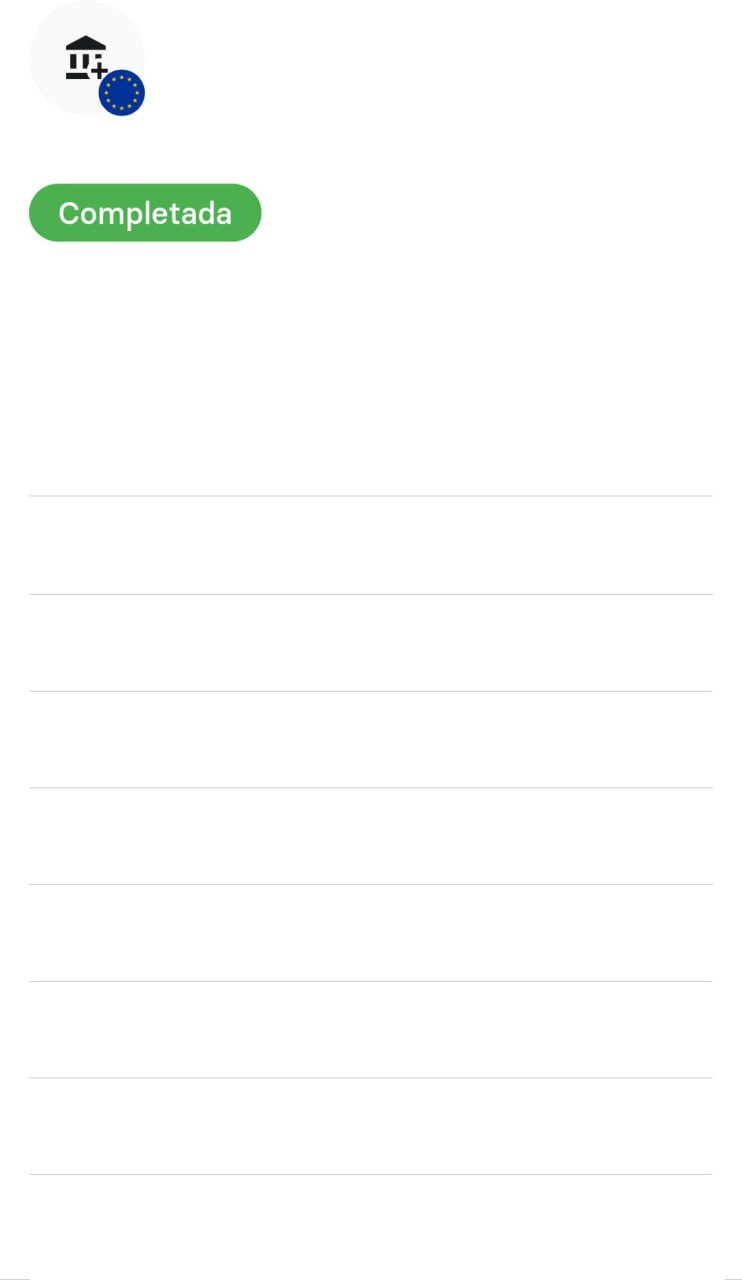
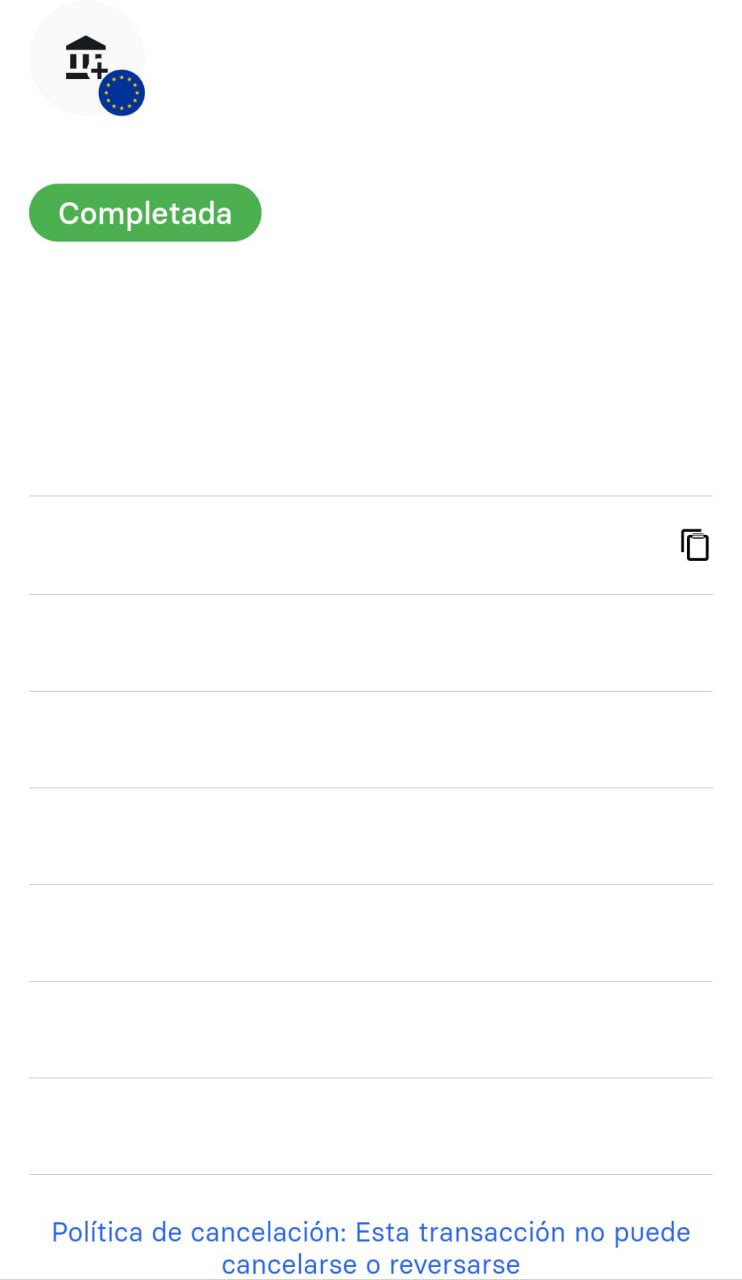
T

Changed region(s): [[0.062, 0.9375, 0.9299, 1.0], [0.8989, 0.4062, 0.9609, 0.4375]]

diff --git a/app/Http/Controllers/GraphsController.php b/app/Http/Controllers/GraphsController.php
@@ -245,7 +245,7 @@ class GraphsController extends Controller
      * @param mixed $transaction ["date","id","name","amount","to","rate","usd"]
      * @return int
      */
-    public static function generateComprobantGraph($transaction)
+    public static function generateComprobantGraph($transaction, $sensitive = false)
     {
         // Configuración del canvas
         $graph = new CanvasGraph(742, 1280, 'auto');
@@ -273,16 +273,16 @@ class GraphsController extends Controller
 
         $tc = new TextController();
 
-        $text = new Text($tc->str_pad($transaction["amount"], 26, " ", STR_PAD_LEFT), 175, 40);
+        $text = new Text("+ €" . $transaction["amount"], 701, 40);
         $text->SetFont(FF_ARIAL, FS_BOLD, 35);
         $text->SetColor('black'); // Color del texto
-        $text->Align('left', 'top');
+        $text->Align('right', 'top');
         $text->Stroke($graph->img);
 
-        $text = new Text($tc->str_pad($transaction["to"], 43, " ", -12), 175, 100);
+        $text = new Text($tc->str_pad("IBAN " . $transaction["to"], 40, " ", -12), 701, 100);
         $text->SetFont(FF_ARIAL, FS_NORMAL, 18);
         $text->SetColor('gray'); // Color del texto
-        $text->Align('left', 'top');
+        $text->Align('right', 'top');
         $text->Stroke($graph->img);
 
         $text = new Text($tc->str_pad($transaction["name"], 27), 30, 320);
@@ -291,28 +291,50 @@ class GraphsController extends Controller
         $text->Align('left', 'top');
         $text->Stroke($graph->img);
 
-        $text = new Text($tc->str_pad($transaction["date"], 63, " ", -12), 30, 440);
+        $text = new Text($tc->str_pad("Fecha " . $transaction["date"], 61, " ", -12), 701, 440);
+        $text->SetFont(FF_ARIAL, FS_NORMAL, 20);
+        $text->SetColor('gray'); // Color del texto
+        $text->Align('right', 'top');
+        $text->Stroke($graph->img);
+
+        $text = new Text($tc->str_pad("Id " . $transaction["id"], 40, " ", -5), 50, 535);
         $text->SetFont(FF_ARIAL, FS_NORMAL, 20);
         $text->SetColor('gray'); // Color del texto
         $text->Align('left', 'top');
         $text->Stroke($graph->img);
 
-        $text = new Text($tc->str_pad($transaction["id"], 50, " ", -5), 30, 535);
+        $text = new Text($tc->str_pad("Total pagado €" . $transaction["amount"], 65, " ", -5), 701, 630);
         $text->SetFont(FF_ARIAL, FS_NORMAL, 20);
         $text->SetColor('gray'); // Color del texto
-        $text->Align('left', 'top');
+        $text->Align('right', 'top');
         $text->Stroke($graph->img);
 
-        $text = new Text($tc->str_pad($transaction["rate"], 70, " ", -5), 30, 630);
+        $text = new Text($tc->str_pad("Comisión €0.00", 70, " ", -5), 701, 725);
         $text->SetFont(FF_ARIAL, FS_NORMAL, 20);
         $text->SetColor('gray'); // Color del texto
-        $text->Align('left', 'top');
+        $text->Align('right', 'top');
         $text->Stroke($graph->img);
 
-        $text = new Text($tc->str_pad($transaction["usd"], 67, " ", -5), 30, 725);
+        $text = new Text($tc->str_pad("Tasa de cambio " . $transaction["rate"], 57, " ", -5), 701, 820);
+        if ($sensitive)
+            $text = new Text($tc->str_pad("Tasa de cambio " . $tc->hide_password($transaction["rate"], 2), 58, " ", -5), 701, 820);
         $text->SetFont(FF_ARIAL, FS_NORMAL, 20);
         $text->SetColor('gray'); // Color del texto
-        $text->Align('left', 'top');
+        $text->Align('right', 'top');
+        $text->Stroke($graph->img);
+
+        $text = new Text($tc->str_pad("Acreditado $" . $transaction["usd"], 63, " ", -5), 701, 915);
+        if ($sensitive)
+            $text = new Text($tc->str_pad("Acreditado " . $tc->hide_password($transaction["usd"], 2), 65, " ", -5), 701, 915);
+        $text->SetFont(FF_ARIAL, FS_NORMAL, 20);
+        $text->SetColor('gray'); // Color del texto
+        $text->Align('right', 'top');
+        $text->Stroke($graph->img);
+
+        $text = new Text($transaction["name"], 701, 1110);
+        $text->SetFont(FF_ARIAL, FS_NORMAL, 20);
+        $text->SetColor('gray'); // Color del texto
+        $text->Align('right', 'top');
         $text->Stroke($graph->img);
 
         return GraphsController::strokeGraph($graph);

diff --git a/app/Http/Controllers/TextController.php b/app/Http/Controllers/TextController.php
@@ -34,17 +34,17 @@ class TextController extends Controller
 
     public function calculateSimilarityPercentage($text1, $text2)
     {
-        // Normalizar los textos
+        // Normalizar los texts
         $text1 = $this->standardize($text1);
         $text2 = $this->standardize($text2);
 
-        // Calcular la distance Levenshtein entre los textos
+        // Calcular la distance Levenshtein entre los texts
         $distance = levenshtein($text1, $text2);
 
-        // Encontrar la longitud máxima entre ambos textos
+        // Encontrar la length máxima entre ambos texts
         $max_length = max(strlen($text1), strlen($text2));
 
-        // Si la longitud máxima es 0 (ambos textos vacíos), son 100% similares
+        // Si la length máxima es 0 (ambos texts vacíos), son 100% similares
         if ($max_length == 0) {
             return 100;
         }
@@ -88,11 +88,23 @@ class TextController extends Controller
         return $text;
     }
 
+    public function hide_password($text, $visible = 0)
+    {
+        $length = mb_strlen($text, 'UTF-8');
+
+        if ($visible <= 0 || $visible >= $length) {
+            return str_repeat('*', $length);
+        }
+
+        $hidden = $length - $visible;
+        return str_repeat('*', $hidden) . mb_substr($text, -$visible, null, 'UTF-8');
+    }
+
     public function str_pad($input, $length, $pad_string = ' ', $pad_type = STR_PAD_RIGHT)
     {
         $input_length = strlen($input);
 
-        // Si el $length es menor que la longitud del input y es un padding normal (no negativo)
+        // Si el $length es menor que la length del input y es un padding normal (no negativo)
         if ($length < $input_length && $pad_type >= 0) {
             return substr($input, 0, max($length - 3, 0)) . '...'; // Aseguramos que no sea negativo
         }

diff --git a/app/Jobs/CheckEmails.php b/app/Jobs/CheckEmails.php
@@ -70,18 +70,18 @@ class CheckEmails implements ShouldQueue
 
                 // Parsear la fecha
                 $carbonDate = Carbon::parse($spanTags[3]->textContent);
-                $amount = floatval(explode("\u{A0}", $spanTags[0]->textContent)[0]);
+                $amount = Moneys::format(floatval(explode("\u{A0}", $spanTags[0]->textContent)[0]), 2, ".", "");
                 $rate = floatval(str_replace("@", "", explode(" ", $spanTags[17]->textContent)[0]));
                 $usd = floatval(str_replace("$", "", explode(" ", $spanTags[19]->textContent)[0]));
                 $name = $bot->TextController->str_pad($spanTags[9]->textContent, 21);
                 $transaction = [
-                    "date" => "Fecha: " . $carbonDate->format('Y-m-d') . " " . Carbon::now()->format("H:i"),
-                    "id" => "ID: " . $spanTags[5]->textContent,
+                    "date" => $carbonDate->format('Y-m-d') . " " . Carbon::now()->format("H:i"),
+                    "id" => $spanTags[5]->textContent,
                     "name" => $name,
-                    "amount" => "+ €" . $amount,
-                    "to" => "IBAN: " . $spanTags[7]->textContent,
-                    "rate" => "Tasa: " . $rate,
-                    "usd" => "Acreditado: $" . $usd,
+                    "amount" => $amount,
+                    "to" => $spanTags[7]->textContent,
+                    "rate" => $rate,
+                    "usd" => $usd,
                 ];
                 $filename = GraphsController::generateComprobantGraph($transaction);
                 $url = "https://d.micalme.com" . FileController::$AUTODESTROY_DIR . "/{$filename}.jpg";

diff --git a/app/Http/Controllers/TestController.php b/app/Http/Controllers/TestController.php
@@ -40,13 +40,13 @@ class TestController extends Controller
     {
         // Datos de ejemplo (puedes reemplazarlos con tus datos reales)
         $transactions = [
-            "date" => "Fecha: " . Carbon::now()->format("Y-m-d H:i"),
-            "id" => "ID: 9cd4bbbf-021f-4a4e-8902-f6a96c8059ca",
+            "date" => Carbon::now()->format("Y-m-d H:i"),
+            "id" => "9cd4bbbf-021f-4a4e-8902-f6a96c8059ca",
             "name" => "Donel Vazquez Zambrano",
-            "amount" => "+ €33.72",
-            "to" => "IBAN: IE11MODR99035506793800",
-            "rate" => "Tasa: 0.8912656",
-            "usd" => "Acreditado: $161.71",
+            "amount" => Moneys::format("20", 2, ".", ""),
+            "to" => "IE11MODR99035506793800",
+            "rate" => "0.8912656",
+            "usd" => "161.71",
         ];
 
         $filename = GraphsController::generateComprobantGraph($transactions);
